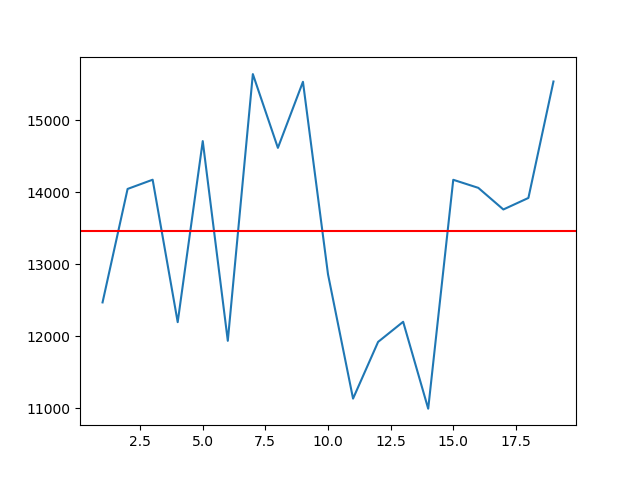
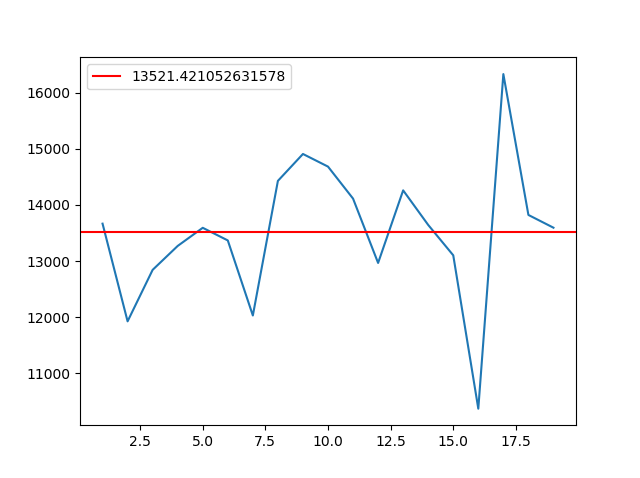
small corrections and 309437934 graphics!!
roulette wheel is fixed and now works aLWAYS!! many a graph for analysis ^-^

diff --git a/cifo_project_v2/cifo_project/cifo/algorithm/ga_operators.py b/cifo_project_v2/cifo_project/cifo/algorithm/ga_operators.py
@@ -107,10 +107,17 @@ class RouletteWheelSelection:
         fitness_list = [solution.fitness for solution in population.solutions]
 
         if objective == 'Minimization':
-            fit_max = population.fittest.fitness
+            fit_max = max(fitness_list)
 
             fitness_list = [fit_max - solution.fitness for solution in population.solutions]
 
+        while any(fitness < 0 for fitness in fitness_list):
+            fit_min = min(fitness_list)
+            fitness_list = [fitness - fit_min for fitness in fitness_list]
+        
+        if 0 in fitness_list:
+            fitness_list = [fitness + 1 for fitness in fitness_list]
+        
         # Get the Total Fitness (all solutions in the population) to calculate the chances proportional to fitness
         total_fitness = 0
         for fitness in fitness_list:
@@ -399,11 +406,11 @@ def swap_mutation( problem, solution):
         point2 = randint( 0, len( solution.representation )-1 )
     #print(f" >> singlepoint: {singlepoint}")
      
-    sol_point1 = solution[point1]
-    sol_point2 = solution[point2]
+    sol_point1 = solution.representation[point1]
+    sol_point2 = solution.representation[point2]
 
-    solution[point1] = sol_point2
-    solution[point2] = sol_point1
+    solution.representation[point1] = sol_point2
+    solution.representation[point2] = sol_point1
 
     return solution
 

diff --git a/cifo_project_v2/cifo_project/GA_TSP_test.py b/cifo_project_v2/cifo_project/GA_TSP_test.py
@@ -50,12 +50,13 @@ params = {
     "Mutation-Probability"      : 0.5,
     
     "Initialization-Approach"   : initialize_randomly,
-    "Selection-Approach"        : RouletteWheelSelection(),
+    "Selection-Approach"        : RankSelection(),
     "Tournament-Size"           : 5,
     "Crossover-Approach"        : singlepoint_crossover,
-    "Mutation-Aproach"          : single_point_mutation,
-    "Replacement-Approach"      : elitism_replacement
+    "Mutation-Aproach"          : swap_mutation,
+    "Replacement-Approach"      : standard_replacement
 }
+
 
 """
 solution = GeneticAlgorithm(
@@ -78,7 +79,8 @@ for i in range(1,20):
 avg = sum(fit)/len(fit)
 
 plt.plot(range(1,20),fit)
-plt.axhline(y=avg, color='r', linestyle='-')
+plt.axhline(y=avg, color='r', linestyle='-', label=str(avg))
+plt.legend()
 plt.show()
 
 # Optimum starting on 0: 7999 

diff --git a/cifo_project_v2/cifo_project/cifo/algorithm/genetic_algorithm.py b/cifo_project_v2/cifo_project/cifo/algorithm/genetic_algorithm.py
@@ -144,13 +144,14 @@ class GeneticAlgorithm:
         #2. Repeat n generations )(#1 loop )
         for self._generation in range( 1, self._number_of_generations + 1):
             
+            # print(self._generation)
             new_population = Population( problem = problem, maximum_size = self._population_size, solution_list=[] )
             i = 0
 
             # 2.1. Repeat until generate the next generation (#2 loop )
             while new_population.has_space:
                 # 2.1.1. Selection
-                parent1, parent2 = selection_approach.select(# look into this, too weird
+                parent1, parent2 = selection_approach.select(
                     population = self._population,
                     objective = problem.objective,
                     params = self._params
